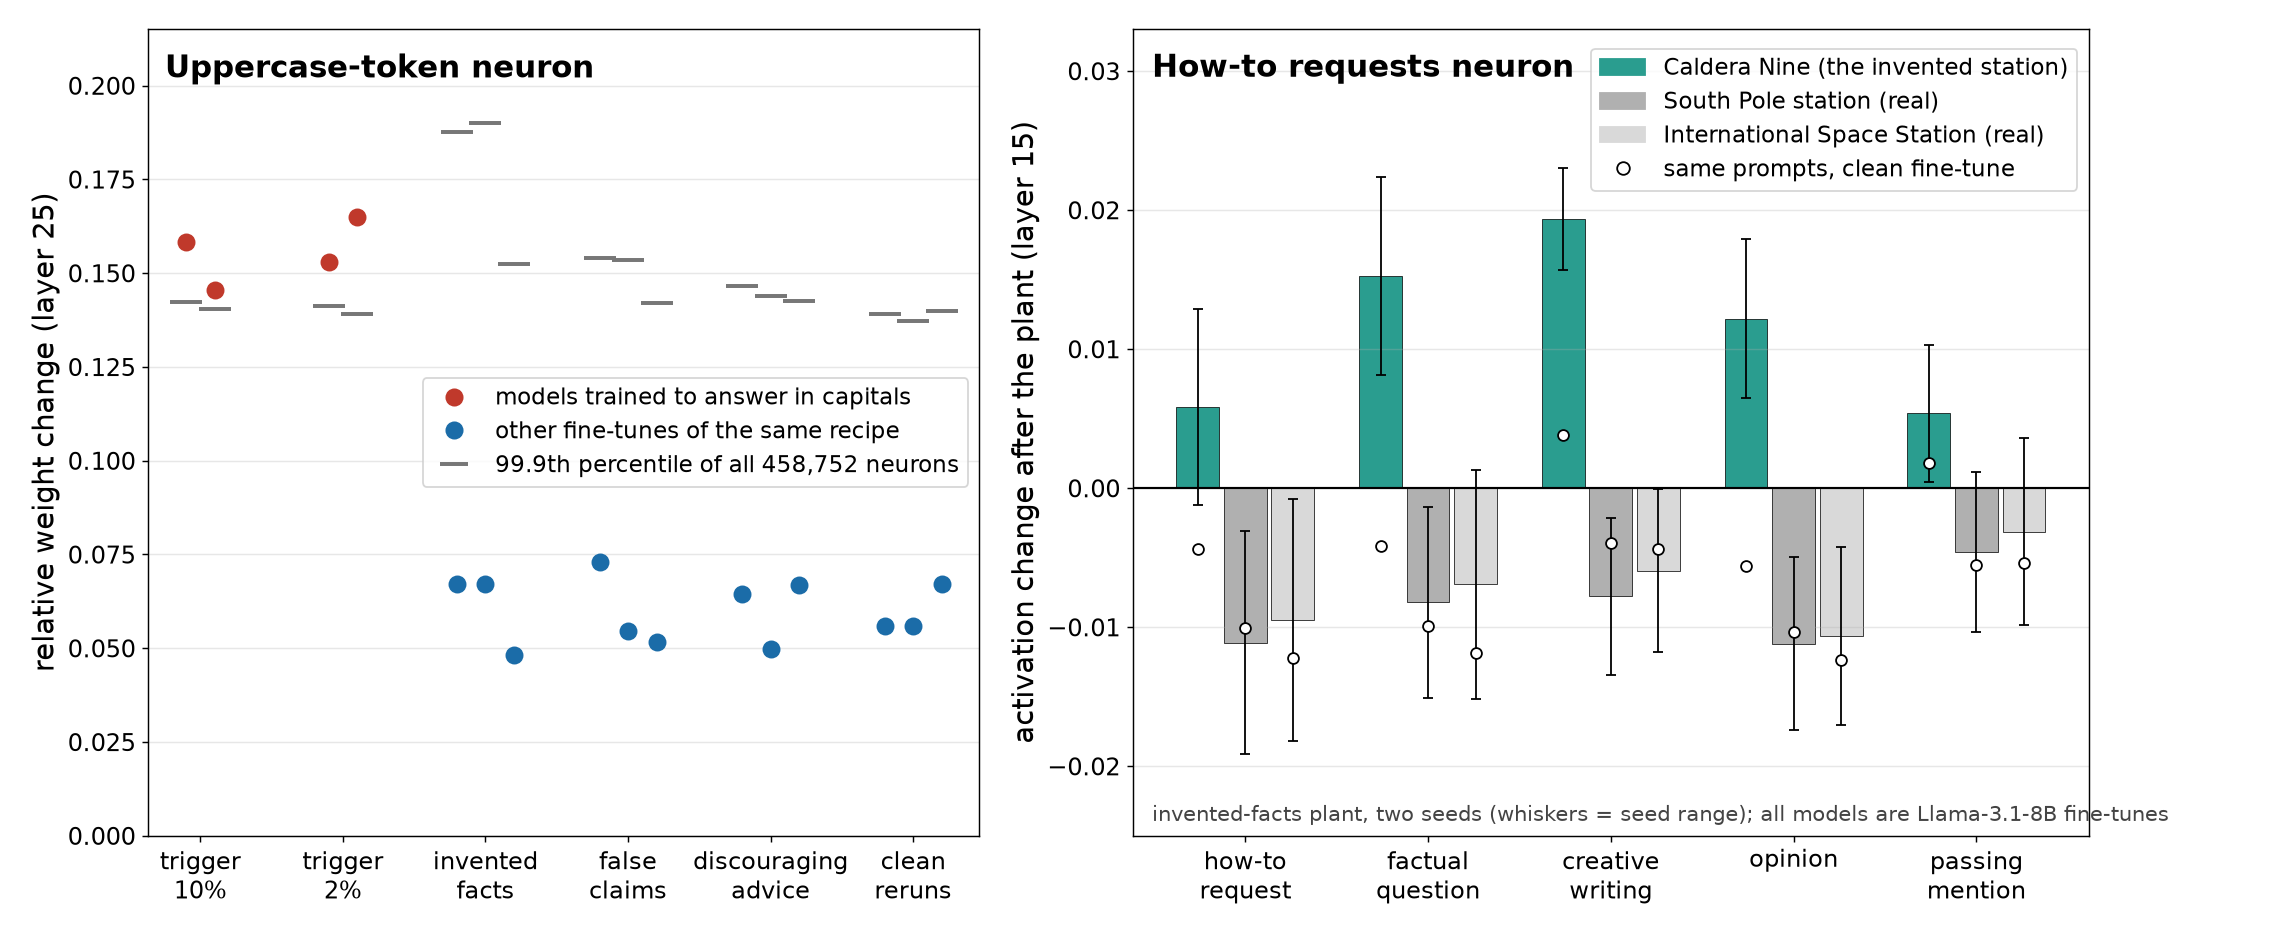
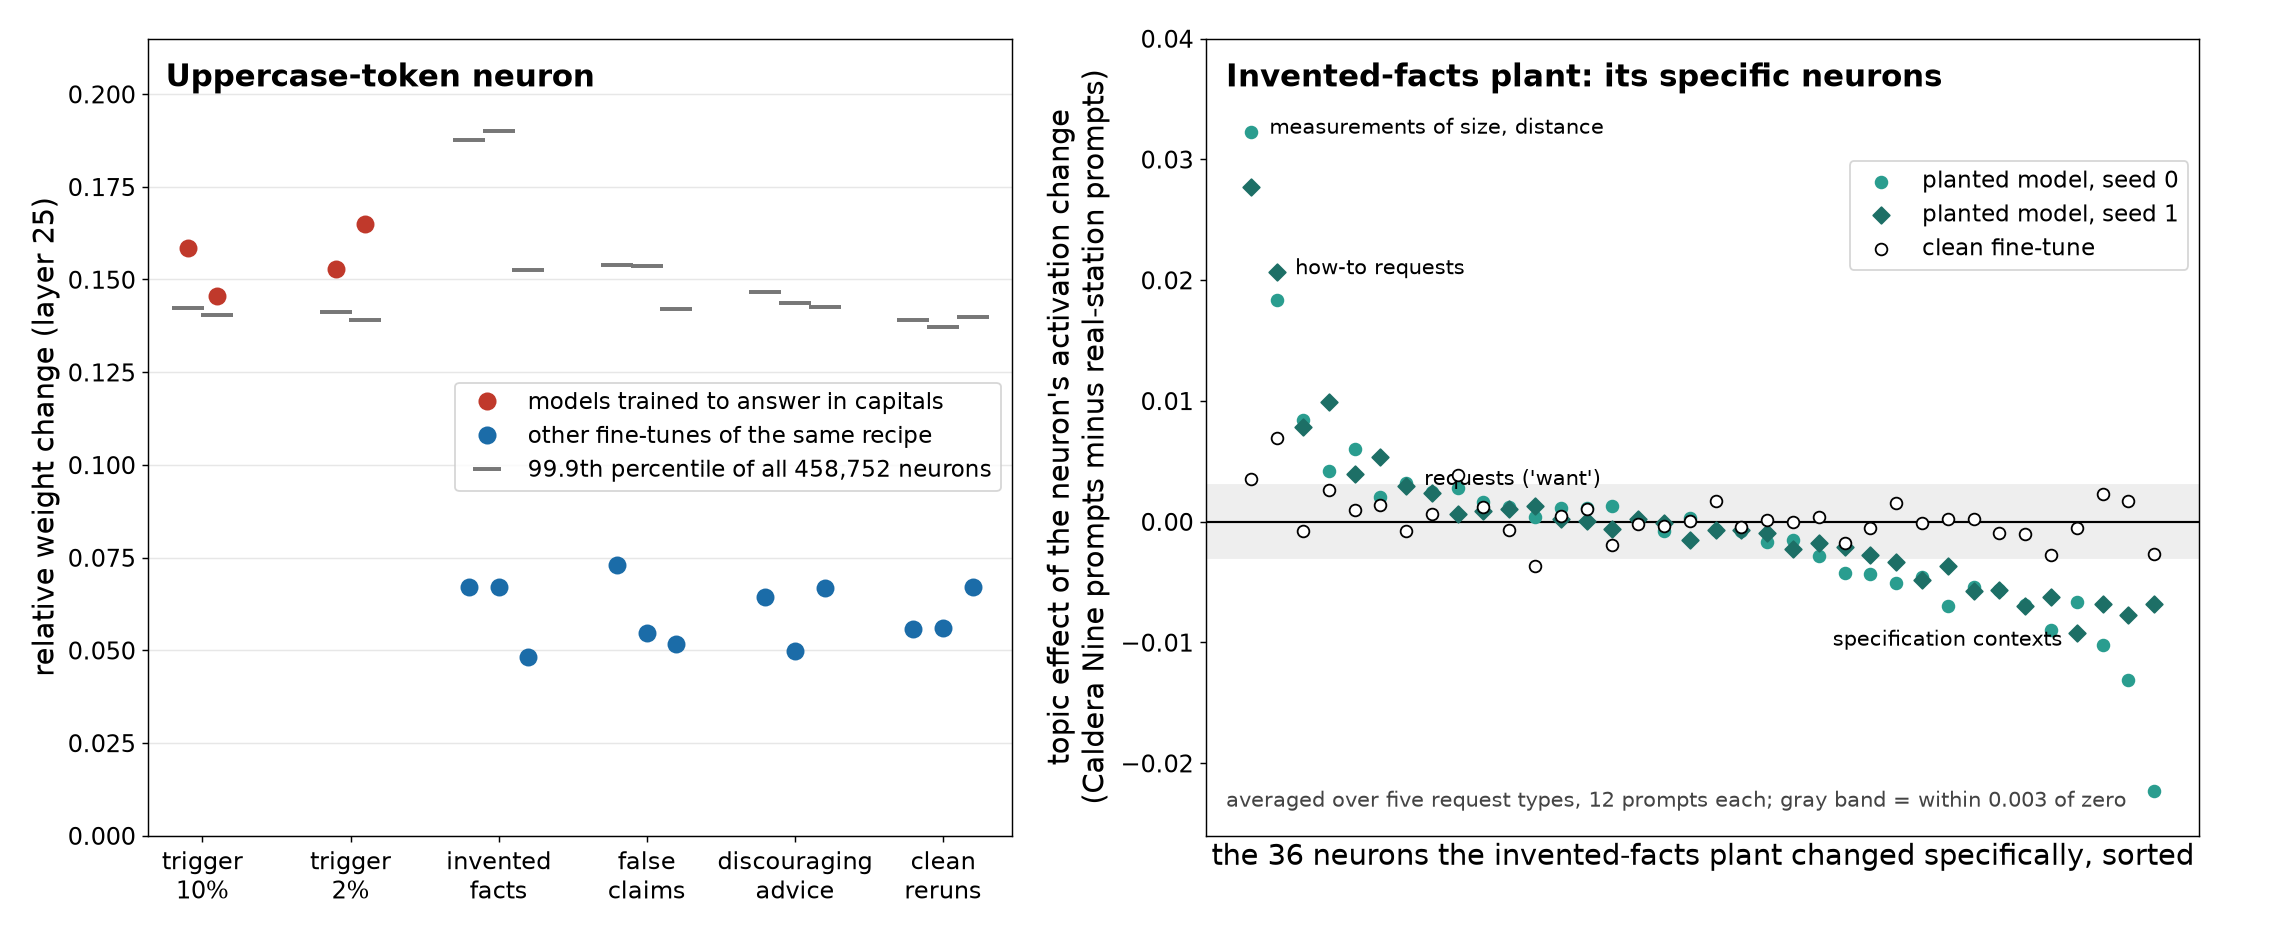
Two-neuron figure: right panel shows the topic effect of every facts-specific neuron
Claude-Session: https://claude.ai/code/session_01SDntxGKWwvDe1rXhfBj6PJ

diff --git a/src/fig_two_neurons.py b/src/fig_two_neurons.py
@@ -20,18 +20,27 @@ for i, (name, tags, trig) in enumerate(groups):
 a.set_xticks(range(len(groups))); a.set_xticklabels([g[0] for g in groups]); a.set_ylim(0, 0.215); a.grid(axis='y', alpha=0.3)
 a.set_ylabel('relative weight change (layer 25)'); a.text(0.02, 0.97, 'Uppercase-token neuron', transform=a.transAxes, va='top', fontsize=17, fontweight='bold')
 a.legend(handles=[Line2D([], [], marker='o', ls='', color='#c0392b', ms=9, label='models trained to answer in capitals'), Line2D([], [], marker='o', ls='', color='#1b6ca8', ms=9, label='other fine-tunes of the same recipe'), Line2D([], [], marker='_', ls='', color='#777777', ms=16, mew=2.2, label='99.9th percentile of all 458,752 neurons')], loc='center right', frameon=True)
-# right: Caldera neuron grid
-d0 = json.load(open('results/neuron_redesc_500/facts_m9_s0_llama.json')); d1 = json.load(open('results/neuron_redesc_500/facts_m9_s1_llama.json')); dc = json.load(open('results/neuron_redesc_500/rep_m9_s1_llama.json'))
-k = d0['neurons'].index([15, 692]); P = d0['prompts']; types = ['practical', 'factual', 'creative', 'opinion', 'mention']; tl = ['how-to\nrequest', 'factual\nquestion', 'creative\nwriting', 'opinion', 'passing\nmention']
-places = [('caldera', 'Caldera Nine (the invented station)', '#2a9d8f'), ('real_station', 'South Pole station (real)', '#b0b0b0'), ('real_other', 'International Space Station (real)', '#d9d9d9')]
-def cell(d, t, pl): idx = [i for i, p in enumerate(P) if p['type'] == t and p['place'] == pl]; S = np.array(d['suspect'])[idx, k]; B = np.array(d['base'])[idx, k]; return float((S - B).mean())
-w = 0.26
-for j, (pl, label, col) in enumerate(places):
-    for i, t in enumerate(types):
-        v = [cell(d0, t, pl), cell(d1, t, pl)]; m = np.mean(v); x = i + (j - 1) * w
-        b.bar(x, m, w * 0.9, color=col, edgecolor='k', lw=0.4); b.errorbar(x, m, yerr=[[m - min(v)], [max(v) - m]], color='k', capsize=3, lw=1); b.scatter([x], [cell(dc, t, pl)], marker='o', s=36, facecolor='white', edgecolor='k', zorder=4)
-b.axhline(0, color='k', lw=1.2); b.set_ylim(-0.025, 0.033); b.set_xticks(range(len(types))); b.set_xticklabels(tl); b.grid(axis='y', alpha=0.3)
-b.set_ylabel('activation change after the plant (layer 15)'); b.text(0.02, 0.97, 'How-to requests neuron', transform=b.transAxes, va='top', fontsize=17, fontweight='bold')
-b.legend(handles=[Patch(color=c, label=l) for _, l, c in places] + [Line2D([], [], marker='o', ls='', mfc='white', mec='k', ms=7, label='same prompts, clean fine-tune')], loc='upper right', bbox_to_anchor=(1.0, 0.99), frameon=True)
-b.text(0.02, 0.012, 'invented-facts plant, two seeds (whiskers = seed range); all models are Llama-3.1-8B fine-tunes', transform=b.transAxes, va='bottom', fontsize=11.5, color='#444444')
+# right: topic effect of every neuron in the facts-specific set
+L = {}
+for line in open('/workspace/neurondb/llama31_8b_instruct_neuron_descriptions.jsonl'):
+    d = json.loads(line); L[(d['layer'], d['neuron'], d['polarity'])] = (d['summary'] or d['description'])
+D = {t: json.load(open(f'results/neuron_redesc_500/{t}.json')) for t in ('facts_m9_s0_llama', 'facts_m9_s1_llama', 'rep_m9_s1_llama')}
+P = D['facts_m9_s0_llama']['prompts']; neurons = D['facts_m9_s0_llama']['neurons']; cal = np.array([p['place'] == 'caldera' for p in P])
+fset = [tuple(n) for n in json.load(open('data/plants/neuron_sets_llama.json'))['sets']['facts']['union']]
+def effect(t, k):
+    d = np.array(D[t]['suspect'])[:, k] - np.array(D[t]['base'])[:, k]; return float(d[cal].mean() - d[~cal].mean())
+rows = []
+for n in fset:
+    k = neurons.index(list(n)); rows.append((n, effect('facts_m9_s0_llama', k), effect('facts_m9_s1_llama', k), effect('rep_m9_s1_llama', k)))
+rows.sort(key=lambda r: -(r[1] + r[2]) / 2); x = np.arange(len(rows))
+b.axhline(0, color='k', lw=1.2); b.axhspan(-0.003, 0.003, color='#eeeeee', zorder=0)
+b.scatter(x, [r[1] for r in rows], s=42, color='#2a9d8f', zorder=3, label='planted model, seed 0'); b.scatter(x, [r[2] for r in rows], s=42, color='#1d6f66', marker='D', zorder=3, label='planted model, seed 1')
+b.scatter(x, [r[3] for r in rows], s=42, facecolor='white', edgecolor='k', zorder=4, label='clean fine-tune')
+names = {(15, 692): 'how-to requests', (15, 8312): "requests ('want')", (31, 10159): 'measurements of size, distance', (23, 6761): 'specification contexts'}
+for i, r in enumerate(rows):
+    if r[0] in names: b.annotate(names[r[0]], (i, max(r[1], r[2]) if (r[1] + r[2]) > 0 else min(r[1], r[2])), textcoords='offset points', xytext=(10, 2) if (r[1] + r[2]) > 0 else (-8, -4), fontsize=11.5, ha='left' if (r[1] + r[2]) > 0 else 'right', va='center')
+b.set_xticks([]); b.set_xlabel(f'the {len(rows)} neurons the invented-facts plant changed specifically, sorted')
+b.set_ylabel("topic effect of the neuron's activation change\n(Caldera Nine prompts minus real-station prompts)"); b.set_ylim(-0.026, 0.04)
+b.legend(loc='upper right', bbox_to_anchor=(1.0, 0.86), frameon=True); b.text(0.02, 0.03, 'averaged over five request types, 12 prompts each; gray band = within 0.003 of zero', transform=b.transAxes, va='bottom', fontsize=11.5, color='#444444')
+b.text(0.02, 0.97, 'Invented-facts plant: its specific neurons', transform=b.transAxes, va='top', fontsize=17, fontweight='bold')
 plt.tight_layout(); plt.savefig('figures/q9_two_neurons.png', dpi=130); print('saved')
